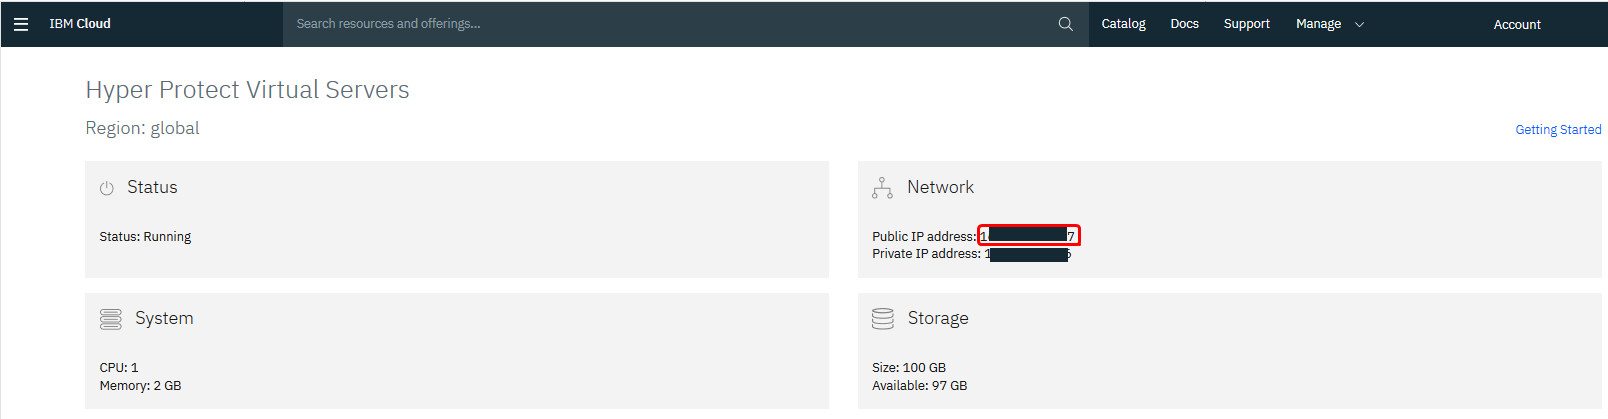
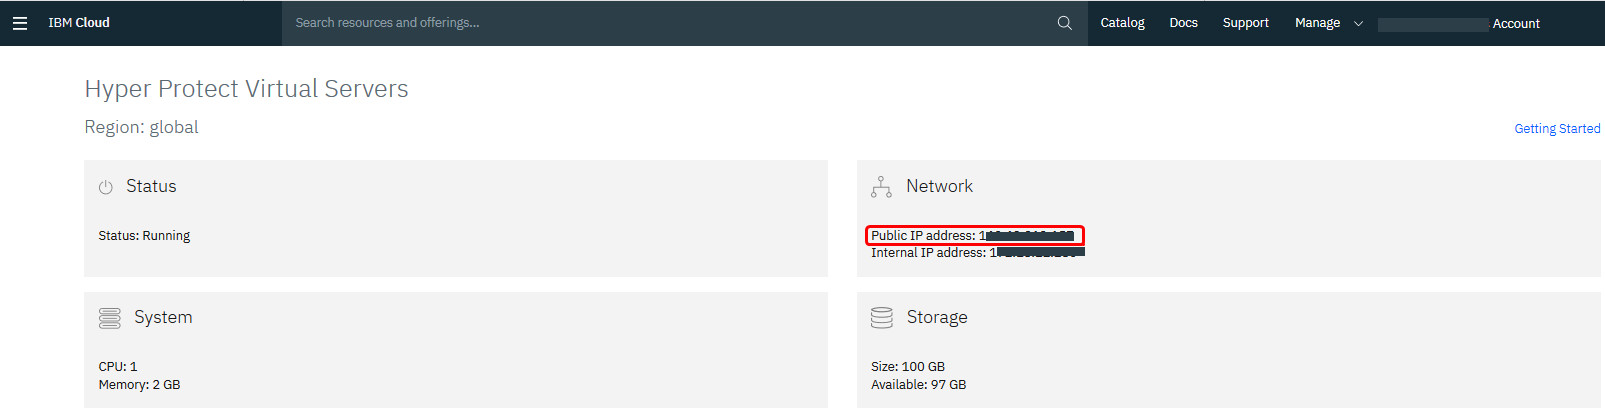
Updates after Beta

diff --git a/FAQs.md b/FAQs.md
@@ -2,7 +2,7 @@
 
 copyright:
   years: 2019
-lastupdated: "2019-08-28"
+lastupdated: "2019-09-06"
 
 ---
 
@@ -24,9 +24,9 @@ You can read the following FAQs to help you with {{site.data.keyword.hpvs}}.
 
 * {{site.data.keyword.hpvs}} does not provide any backup functions for your server instance. If you require backup capabilities, you need to configure your virtual server backup in your own responsibility.
 
-## What is the purpose of the private IP address?
+## What is the purpose of the internal IP address?
 
-* You must use the private IP address when you connect to a virtual server from another virtual server. You must also use it when you connect from another cloud service that is running in the same data center.  
+* You must use the internal IP address when you connect to a virtual server from another virtual server. You must also use it when you connect from another cloud service that is running in the same data center.  
 
 ## How do I provide my applications in high availability?
 * Do not rely on just one virtual server instance. Instead, run your application on multiple instances in combination with a load balancer to ensure high availability.
@@ -36,7 +36,7 @@ selectable in the provisioning UI as soon as there are multiple available.  -->
 
 ## Is a virtual server instance available 24 / 7?
 * The virtual server is running on infrastructure that needs to be maintained. Before maintenance, the virtual servers must be stopped. Customers are notified about
-maintenance schedules in advance. Service availability is defined within the [IBM Cloud Terms and Notices](https://cloud.ibm.com/docs/overview/terms-of-use?topic=overview-terms){: external}. <!-- of the {{site.data.keyword.hpvs}} offering. --> 
+maintenance schedules in advance. Service availability is defined within the [{{site.data.keyword.cloud}} Service Description](https://www-03.ibm.com/software/sla/sladb.nsf/pdf/6605-17/$file/i126-6605-17_06-2019_en_US.pdf){: external}. <!-- of the {{site.data.keyword.hpvs}} offering. -->
 
 ## Can I create more than one virtual server instance within my {{site.data.keyword.cloud_notm}} account?
 * In the Free Standard pricing plan, you can create exactly one virtual server instance in your {{site.data.keyword.cloud_notm}} account.

diff --git a/retrieve_info_vs.md b/retrieve_info_vs.md
@@ -2,7 +2,7 @@
 
 copyright:
   years: 2019
-lastupdated: "2019-08-29"
+lastupdated: "2019-09-06"
 
 ---
 
@@ -24,7 +24,7 @@ After you created an instance of {{site.data.keyword.hpvs}}, you can check the d
 2. Click your server instance to open the {{site.data.keyword.hpvs}} dashboard.
 
 In this dashboard, you can find the public IP address, which you use to connect to the virtual server.
-You must use the private IP address when you connect to a virtual server from another virtual server. You must also use it when you connect from another cloud service that is running in the same data center.   
+You must use the internal IP address when you connect to a virtual server from another virtual server. You must also use it when you connect from another cloud service that is running in the same data center.   
 
 ![**{{site.data.keyword.hpvs}}** dashboard\label{f_retrieve_info_1}](image/hpvs_instance.jpg "**{{site.data.keyword.hpvs}}** dashboard")
 *Figure 1. **{{site.data.keyword.hpvs}}** dashboard*
